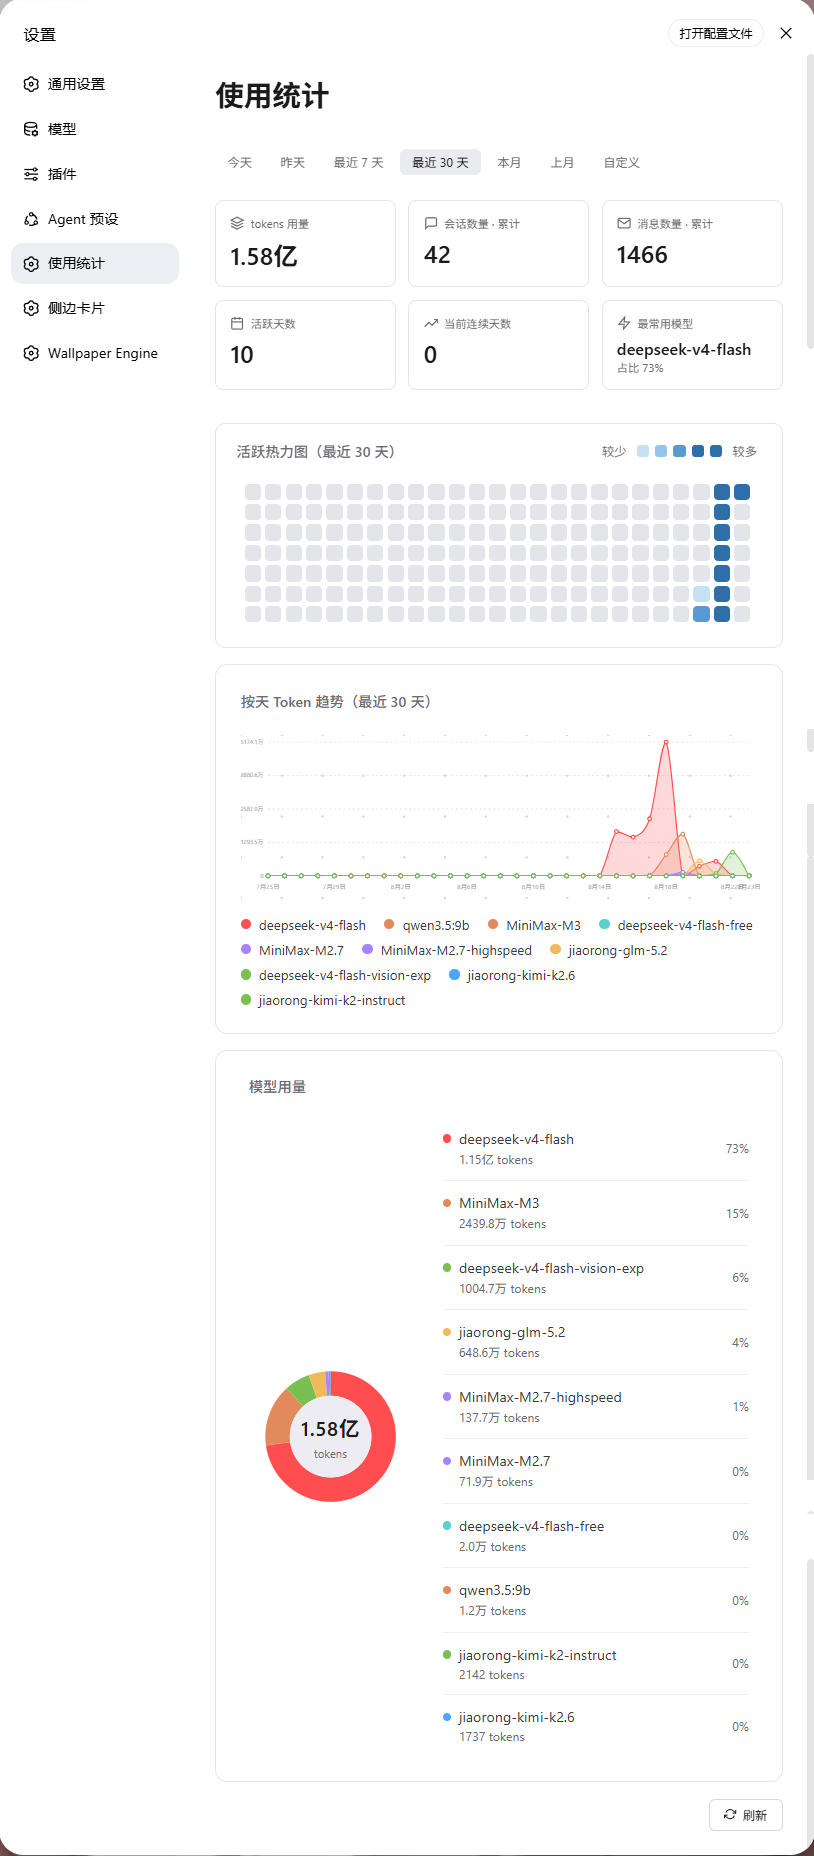
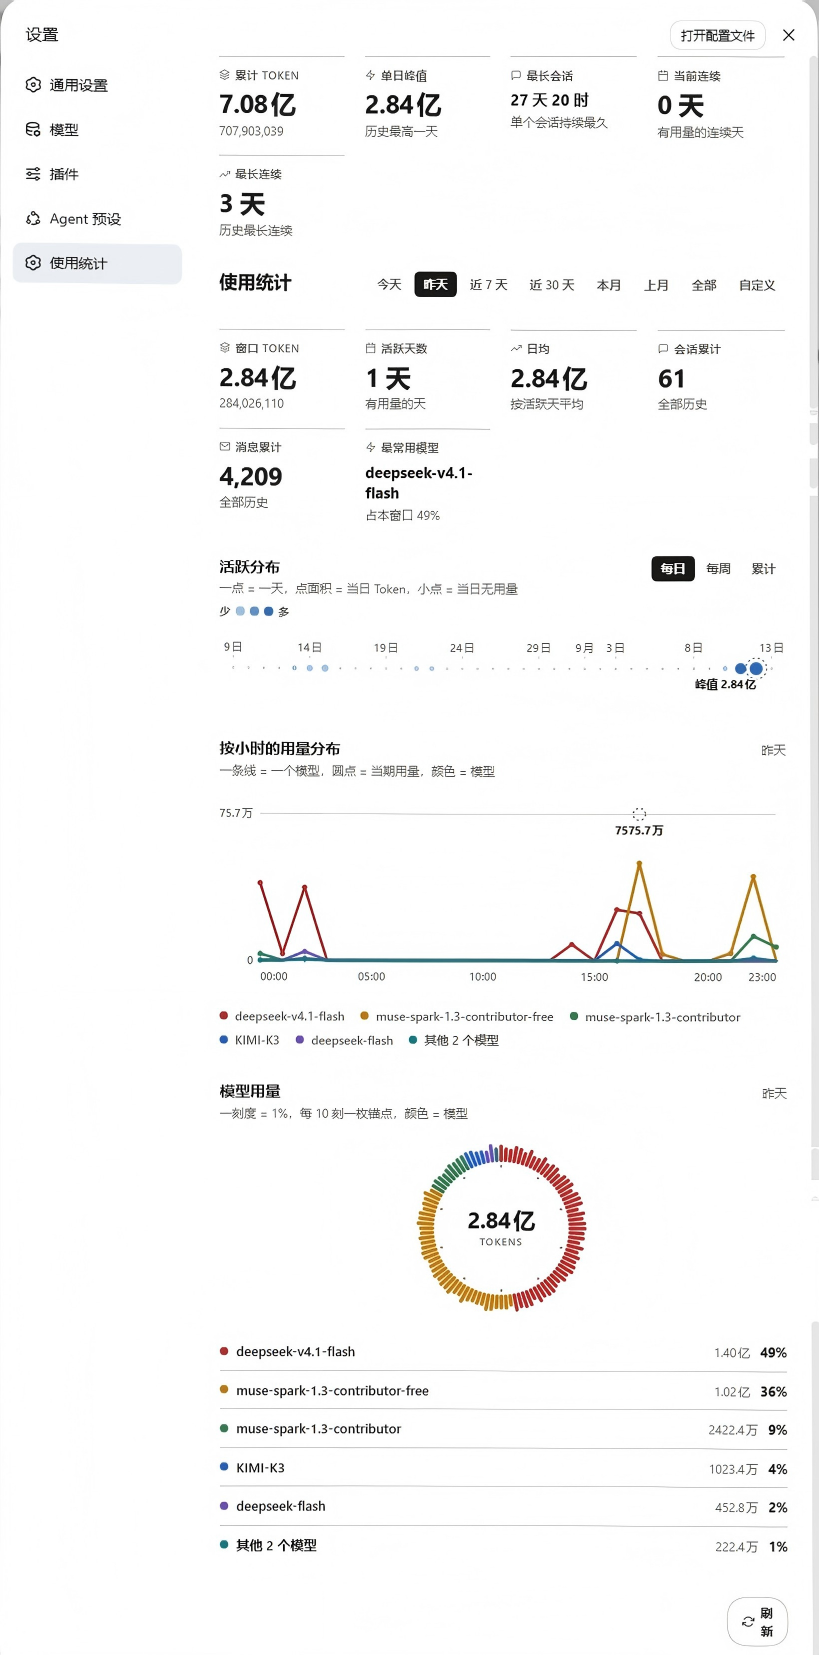
docs: 更新界面预览截图（浅色/深色主题）

diff --git a/README.md b/README.md
@@ -4,6 +4,16 @@
 
 > 非官方社区插件，与 DeepSeek / ZCode 无关联。"zcode" 仅为致敬对象与包名沿用。
 
+## 界面预览
+
+浅色主题：
+
+![浅色主题](assets/usage-stats.png)
+
+深色主题：
+
+![深色主题](assets/usage-stats2.png)
+
 ## 功能
 
 - **时间范围**：今天、昨天、近 7 天、近 30 天、本月、上月、全部、自定义区间（起止自动校验防倒序）。
